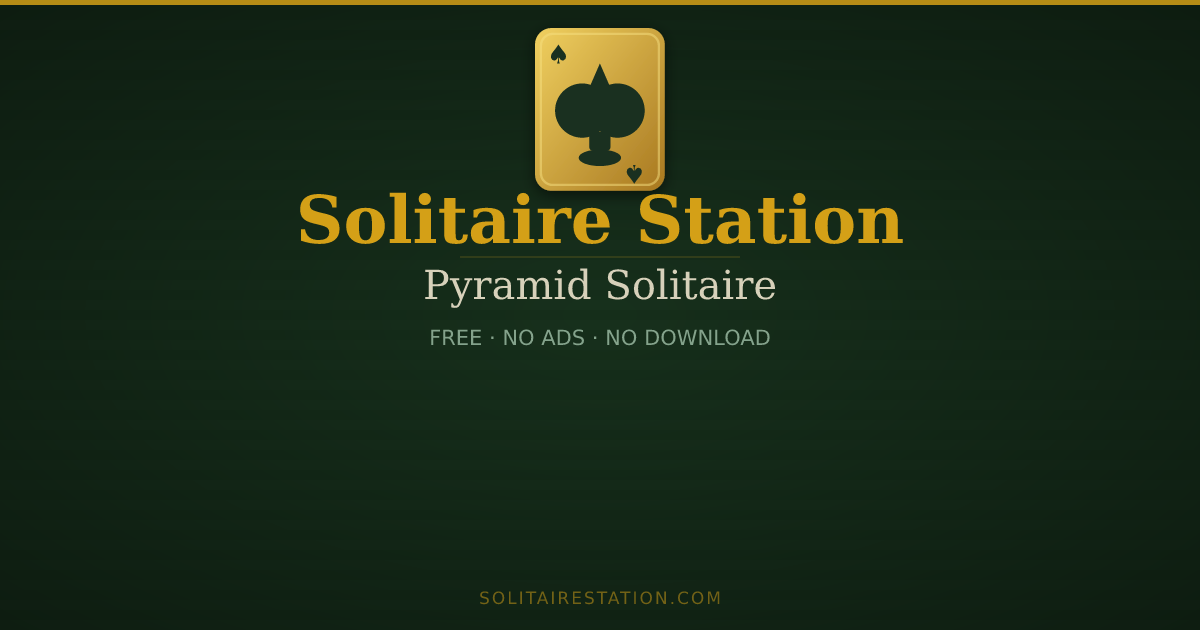
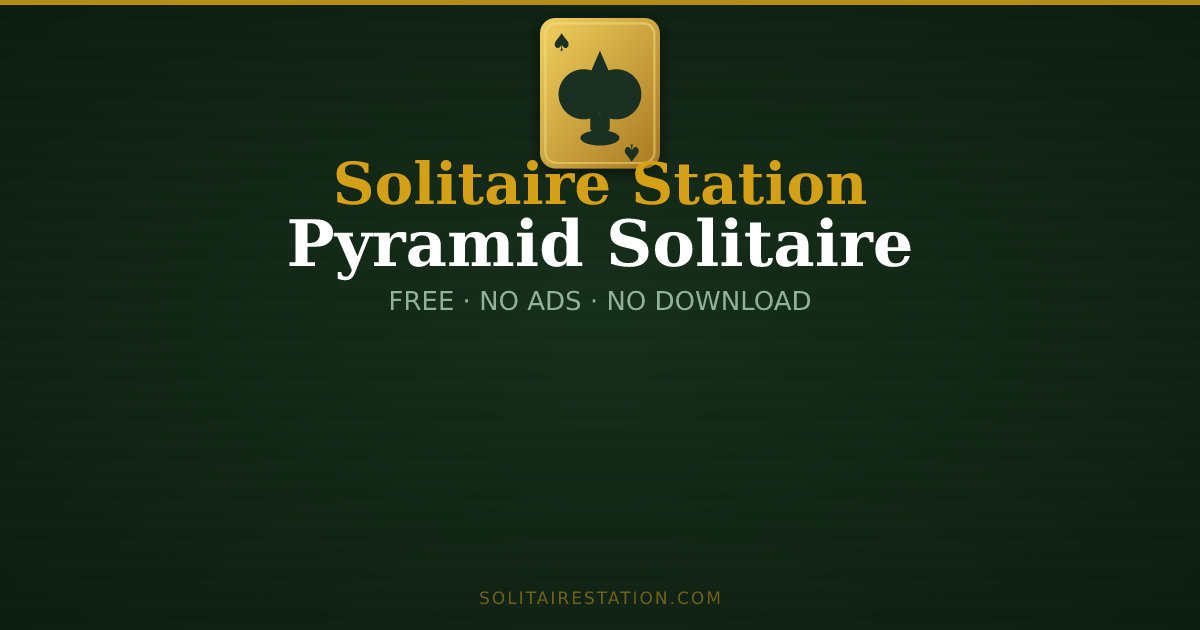
Improve OG image readability — larger game name, white text, bump to v=4

Changed region(s): [[0.2467, 0.0302, 0.7708, 0.5429]]

diff --git a/src/routes/__root.tsx b/src/routes/__root.tsx
@@ -107,7 +107,7 @@ export const Route = createRootRouteWithContext<{ queryClient: QueryClient }>()(
       { property: "og:description", content: "16 free solitaire games with customizable card backs and face styles — hints, undo, and auto-save included. No download or sign-up. Works on any device." },
       { property: "og:site_name", content: "Solitaire Station" },
       { property: "og:locale", content: "en_US" },
-      { property: "og:image", content: `${SITE_URL}/og/klondike.png?v=3?v=2` },
+      { property: "og:image", content: `${SITE_URL}/og/klondike.png?v=4?v=2` },
       { property: "og:image:width", content: "1200" },
       { property: "og:image:height", content: "630" },
       { property: "og:image:alt", content: "Solitaire Station — Play Free Online Solitaire Instantly" },
@@ -116,7 +116,7 @@ export const Route = createRootRouteWithContext<{ queryClient: QueryClient }>()(
       { name: "twitter:url", content: `${SITE_URL}/` },
       { name: "twitter:title", content: "Solitaire Station — Play Free Online Solitaire Instantly" },
       { name: "twitter:description", content: "16 free solitaire games — customizable card designs, hints, and auto-save. Klondike, Spider, FreeCell, Golf, Mahjong, and more. No download." },
-      { name: "twitter:image", content: `${SITE_URL}/og/klondike.png?v=3?v=2` },
+      { name: "twitter:image", content: `${SITE_URL}/og/klondike.png?v=4?v=2` },
       // PWA / mobile
       { name: "theme-color", content: "#b8901e" },
       { name: "mobile-web-app-capable", content: "yes" },

diff --git a/src/routes/tripeaks.tsx b/src/routes/tripeaks.tsx
@@ -16,14 +16,14 @@ export const Route = createFileRoute("/tripeaks")({
       { property: "og:description", content: "Play free TriPeaks solitaire at Solitaire Station — clear three peaks by chaining cards one rank apart. Build streaks for bonus points. No download or sign-up." },
       { property: "og:type", content: "website" },
       { property: "og:url", content: `${SITE_URL}/tripeaks` },
-      { property: "og:image", content: `${SITE_URL}/og/tripeaks.png?v=3` },
+      { property: "og:image", content: `${SITE_URL}/og/tripeaks.png?v=4` },
       { property: "og:image:width", content: "1200" },
       { property: "og:image:height", content: "630" },
       { property: "og:image:alt", content: "Solitaire Station — Free TriPeaks Solitaire" },
       { name: "twitter:card", content: "summary_large_image" },
       { name: "twitter:title", content: "Solitaire Station — Free TriPeaks Solitaire" },
       { name: "twitter:description", content: "Play free TriPeaks solitaire at Solitaire Station — chain cards one rank apart to clear three peaks. No download or sign-up." },
-      { name: "twitter:image", content: `${SITE_URL}/og/tripeaks.png?v=3` },
+      { name: "twitter:image", content: `${SITE_URL}/og/tripeaks.png?v=4` },
     ],
     links: [
       { rel: "canonical", href: `${SITE_URL}/tripeaks` },

diff --git a/src/routes/freecell.tsx b/src/routes/freecell.tsx
@@ -16,14 +16,14 @@ export const Route = createFileRoute("/freecell")({
       { property: "og:description", content: "Play free FreeCell solitaire at Solitaire Station — almost every deal is solvable. Use 4 free cells to plan your moves. Hints, undo, and auto-save." },
       { property: "og:type", content: "website" },
       { property: "og:url", content: `${SITE_URL}/freecell` },
-      { property: "og:image", content: `${SITE_URL}/og/freecell.png?v=3` },
+      { property: "og:image", content: `${SITE_URL}/og/freecell.png?v=4` },
       { property: "og:image:width", content: "1200" },
       { property: "og:image:height", content: "630" },
       { property: "og:image:alt", content: "Solitaire Station — Free FreeCell Solitaire" },
       { name: "twitter:card", content: "summary_large_image" },
       { name: "twitter:title", content: "Solitaire Station — Free FreeCell Solitaire" },
       { name: "twitter:description", content: "Play free FreeCell solitaire at Solitaire Station — almost every deal is solvable. 4 free cells, hints, undo. No download or sign-up." },
-      { name: "twitter:image", content: `${SITE_URL}/og/freecell.png?v=3` },
+      { name: "twitter:image", content: `${SITE_URL}/og/freecell.png?v=4` },
     ],
     links: [
       { rel: "canonical", href: `${SITE_URL}/freecell` },

diff --git a/src/routes/mahjong.tsx b/src/routes/mahjong.tsx
@@ -16,14 +16,14 @@ export const Route = createFileRoute("/mahjong")({
       { property: "og:description", content: "Play free Mahjong solitaire at Solitaire Station — match identical free tiles to clear all 144 from the board. Hints and auto-save. No download or sign-up." },
       { property: "og:type", content: "website" },
       { property: "og:url", content: `${SITE_URL}/mahjong` },
-      { property: "og:image", content: `${SITE_URL}/og/mahjong.png?v=3` },
+      { property: "og:image", content: `${SITE_URL}/og/mahjong.png?v=4` },
       { property: "og:image:width", content: "1200" },
       { property: "og:image:height", content: "630" },
       { property: "og:image:alt", content: "Solitaire Station — Free Mahjong Solitaire" },
       { name: "twitter:card", content: "summary_large_image" },
       { name: "twitter:title", content: "Solitaire Station — Free Mahjong Solitaire" },
       { name: "twitter:description", content: "Play free Mahjong solitaire at Solitaire Station — match identical free tiles to clear all 144. No download or sign-up." },
-      { name: "twitter:image", content: `${SITE_URL}/og/mahjong.png?v=3` },
+      { name: "twitter:image", content: `${SITE_URL}/og/mahjong.png?v=4` },
     ],
     links: [
       { rel: "canonical", href: `${SITE_URL}/mahjong` },

diff --git a/src/routes/forty-thieves.tsx b/src/routes/forty-thieves.tsx
@@ -16,14 +16,14 @@ export const Route = createFileRoute("/forty-thieves")({
       { property: "og:description", content: "Play free Forty Thieves solitaire — two decks, 10 columns, same-suit building. Hints, undo, and auto-save." },
       { property: "og:type", content: "website" },
       { property: "og:url", content: `${SITE_URL}/forty-thieves` },
-      { property: "og:image", content: `${SITE_URL}/og/forty-thieves.png?v=3` },
+      { property: "og:image", content: `${SITE_URL}/og/forty-thieves.png?v=4` },
       { property: "og:image:width", content: "1200" },
       { property: "og:image:height", content: "630" },
       { property: "og:image:alt", content: "Solitaire Station — Free Forty Thieves Solitaire" },
       { name: "twitter:card", content: "summary_large_image" },
       { name: "twitter:title", content: "Solitaire Station — Free Forty Thieves Solitaire" },
       { name: "twitter:description", content: "Two-deck solitaire with same-suit tableau building. One card moves at a time. Can you beat all 40 thieves?" },
-      { name: "twitter:image", content: `${SITE_URL}/og/forty-thieves.png?v=3` },
+      { name: "twitter:image", content: `${SITE_URL}/og/forty-thieves.png?v=4` },
     ],
     links: [
       { rel: "canonical", href: `${SITE_URL}/forty-thieves` },

diff --git a/src/routes/pyramid.tsx b/src/routes/pyramid.tsx
@@ -16,14 +16,14 @@ export const Route = createFileRoute("/pyramid")({
       { property: "og:description", content: "Play free Pyramid solitaire at Solitaire Station — pair cards that sum to 13 to clear all 28 cards. Kings remove alone. Hints and auto-save." },
       { property: "og:type", content: "website" },
       { property: "og:url", content: `${SITE_URL}/pyramid` },
-      { property: "og:image", content: `${SITE_URL}/og/pyramid.png?v=3` },
+      { property: "og:image", content: `${SITE_URL}/og/pyramid.png?v=4` },
       { property: "og:image:width", content: "1200" },
       { property: "og:image:height", content: "630" },
       { property: "og:image:alt", content: "Solitaire Station — Free Pyramid Solitaire" },
       { name: "twitter:card", content: "summary_large_image" },
       { name: "twitter:title", content: "Solitaire Station — Free Pyramid Solitaire" },
       { name: "twitter:description", content: "Play free Pyramid solitaire at Solitaire Station — pair cards that sum to 13 to clear the pyramid. No download or sign-up." },
-      { name: "twitter:image", content: `${SITE_URL}/og/pyramid.png?v=3` },
+      { name: "twitter:image", content: `${SITE_URL}/og/pyramid.png?v=4` },
     ],
     links: [
       { rel: "canonical", href: `${SITE_URL}/pyramid` },

diff --git a/src/routes/addiction.tsx b/src/routes/addiction.tsx
@@ -16,14 +16,14 @@ export const Route = createFileRoute("/addiction")({
       { property: "og:description", content: "Arrange cards in 4 rows from 2 to King in the same suit using gaps as spaces. Up to 3 reshuffles. Hints, undo, and auto-save." },
       { property: "og:type", content: "website" },
       { property: "og:url", content: `${SITE_URL}/addiction` },
-      { property: "og:image", content: `${SITE_URL}/og/addiction.png?v=3` },
+      { property: "og:image", content: `${SITE_URL}/og/addiction.png?v=4` },
       { property: "og:image:width", content: "1200" },
       { property: "og:image:height", content: "630" },
       { property: "og:image:alt", content: "Solitaire Station — Free Addiction Solitaire" },
       { name: "twitter:card", content: "summary_large_image" },
       { name: "twitter:title", content: "Solitaire Station — Free Addiction Solitaire" },
       { name: "twitter:description", content: "Slide cards into gaps to build same-suit rows from 2 to King. Highly addictive puzzle solitaire with up to 3 reshuffles." },
-      { name: "twitter:image", content: `${SITE_URL}/og/addiction.png?v=3` },
+      { name: "twitter:image", content: `${SITE_URL}/og/addiction.png?v=4` },
     ],
     links: [
       { rel: "canonical", href: `${SITE_URL}/addiction` },

diff --git a/src/routes/bakers-game.tsx b/src/routes/bakers-game.tsx
@@ -16,14 +16,14 @@ export const Route = createFileRoute("/bakers-game")({
       { property: "og:description", content: "Play free Baker's Game solitaire at Solitaire Station — FreeCell with same-suit stacking for a tougher strategic challenge." },
       { property: "og:type", content: "website" },
       { property: "og:url", content: `${SITE_URL}/bakers-game` },
-      { property: "og:image", content: `${SITE_URL}/og/bakers-game.png?v=3` },
+      { property: "og:image", content: `${SITE_URL}/og/bakers-game.png?v=4` },
       { property: "og:image:width", content: "1200" },
       { property: "og:image:height", content: "630" },
       { property: "og:image:alt", content: "Solitaire Station — Free Baker's Game Solitaire" },
       { name: "twitter:card", content: "summary_large_image" },
       { name: "twitter:title", content: "Solitaire Station — Free Baker's Game Solitaire" },
       { name: "twitter:description", content: "Play free Baker's Game — FreeCell with same-suit stacking, hints, undo. No download or sign-up." },
-      { name: "twitter:image", content: `${SITE_URL}/og/bakers-game.png?v=3` },
+      { name: "twitter:image", content: `${SITE_URL}/og/bakers-game.png?v=4` },
     ],
     links: [
       { rel: "canonical", href: `${SITE_URL}/bakers-game` },

diff --git a/src/routes/scorpion.tsx b/src/routes/scorpion.tsx
@@ -16,14 +16,14 @@ export const Route = createFileRoute("/scorpion")({
       { property: "og:description", content: "Play free Scorpion Solitaire — move face-up groups onto same-suit sequences, complete four K-to-A runs to win. No sign-up needed." },
       { property: "og:type", content: "website" },
       { property: "og:url", content: `${SITE_URL}/scorpion` },
-      { property: "og:image", content: `${SITE_URL}/og/scorpion.png?v=3` },
+      { property: "og:image", content: `${SITE_URL}/og/scorpion.png?v=4` },
       { property: "og:image:width", content: "1200" },
       { property: "og:image:height", content: "630" },
       { property: "og:image:alt", content: "Solitaire Station — Free Scorpion Solitaire" },
       { name: "twitter:card", content: "summary_large_image" },
       { name: "twitter:title", content: "Solitaire Station — Free Scorpion Solitaire" },
       { name: "twitter:description", content: "Play free Scorpion Solitaire — build four complete same-suit sequences from King to Ace. Hints, undo, auto-save." },
-      { name: "twitter:image", content: `${SITE_URL}/og/scorpion.png?v=3` },
+      { name: "twitter:image", content: `${SITE_URL}/og/scorpion.png?v=4` },
     ],
     links: [
       { rel: "canonical", href: `${SITE_URL}/scorpion` },

diff --git a/src/routes/clock.tsx b/src/routes/clock.tsx
@@ -16,14 +16,14 @@ export const Route = createFileRoute("/clock")({
       { property: "og:description", content: "Play free Clock Patience at Solitaire Station — a self-playing solitaire where cards reveal themselves around a clock face. Auto Play included." },
       { property: "og:type", content: "website" },
       { property: "og:url", content: `${SITE_URL}/clock` },
-      { property: "og:image", content: `${SITE_URL}/og/clock.png?v=3` },
+      { property: "og:image", content: `${SITE_URL}/og/clock.png?v=4` },
       { property: "og:image:width", content: "1200" },
       { property: "og:image:height", content: "630" },
       { property: "og:image:alt", content: "Solitaire Station — Free Clock Patience" },
       { name: "twitter:card", content: "summary_large_image" },
       { name: "twitter:title", content: "Solitaire Station — Free Clock Patience" },
       { name: "twitter:description", content: "Watch cards deal themselves around a clock face in this mesmerizing self-playing solitaire. Will all Kings be the last to fall?" },
-      { name: "twitter:image", content: `${SITE_URL}/og/clock.png?v=3` },
+      { name: "twitter:image", content: `${SITE_URL}/og/clock.png?v=4` },
     ],
     links: [
       { rel: "canonical", href: `${SITE_URL}/clock` },

diff --git a/src/routes/eight-off.tsx b/src/routes/eight-off.tsx
@@ -16,14 +16,14 @@ export const Route = createFileRoute("/eight-off")({
       { property: "og:description", content: "Play free Eight Off solitaire at Solitaire Station — 8 free cells and same-suit stacking make this a unique strategic challenge." },
       { property: "og:type", content: "website" },
       { property: "og:url", content: `${SITE_URL}/eight-off` },
-      { property: "og:image", content: `${SITE_URL}/og/eight-off.png?v=3` },
+      { property: "og:image", content: `${SITE_URL}/og/eight-off.png?v=4` },
       { property: "og:image:width", content: "1200" },
       { property: "og:image:height", content: "630" },
       { property: "og:image:alt", content: "Solitaire Station — Free Eight Off Solitaire" },
       { name: "twitter:card", content: "summary_large_image" },
       { name: "twitter:title", content: "Solitaire Station — Free Eight Off Solitaire" },
       { name: "twitter:description", content: "Play free Eight Off solitaire — 8 free cells, same-suit stacking, hints, undo. No download or sign-up." },
-      { name: "twitter:image", content: `${SITE_URL}/og/eight-off.png?v=3` },
+      { name: "twitter:image", content: `${SITE_URL}/og/eight-off.png?v=4` },
     ],
     links: [
       { rel: "canonical", href: `${SITE_URL}/eight-off` },

diff --git a/src/routes/golf.tsx b/src/routes/golf.tsx
@@ -16,14 +16,14 @@ export const Route = createFileRoute("/golf")({
       { property: "og:description", content: "Play free Golf solitaire at Solitaire Station — clear all 35 tableau cards by building on the waste pile ±1. Hints and auto-save." },
       { property: "og:type", content: "website" },
       { property: "og:url", content: `${SITE_URL}/golf` },
-      { property: "og:image", content: `${SITE_URL}/og/golf.png?v=3` },
+      { property: "og:image", content: `${SITE_URL}/og/golf.png?v=4` },
       { property: "og:image:width", content: "1200" },
       { property: "og:image:height", content: "630" },
       { property: "og:image:alt", content: "Solitaire Station — Free Golf Solitaire" },
       { name: "twitter:card", content: "summary_large_image" },
       { name: "twitter:title", content: "Solitaire Station — Free Golf Solitaire" },
       { name: "twitter:description", content: "Play free Golf solitaire at Solitaire Station — clear all tableau cards by playing ±1 onto the waste pile. No download or sign-up." },
-      { name: "twitter:image", content: `${SITE_URL}/og/golf.png?v=3` },
+      { name: "twitter:image", content: `${SITE_URL}/og/golf.png?v=4` },
     ],
     links: [
       { rel: "canonical", href: `${SITE_URL}/golf` },
